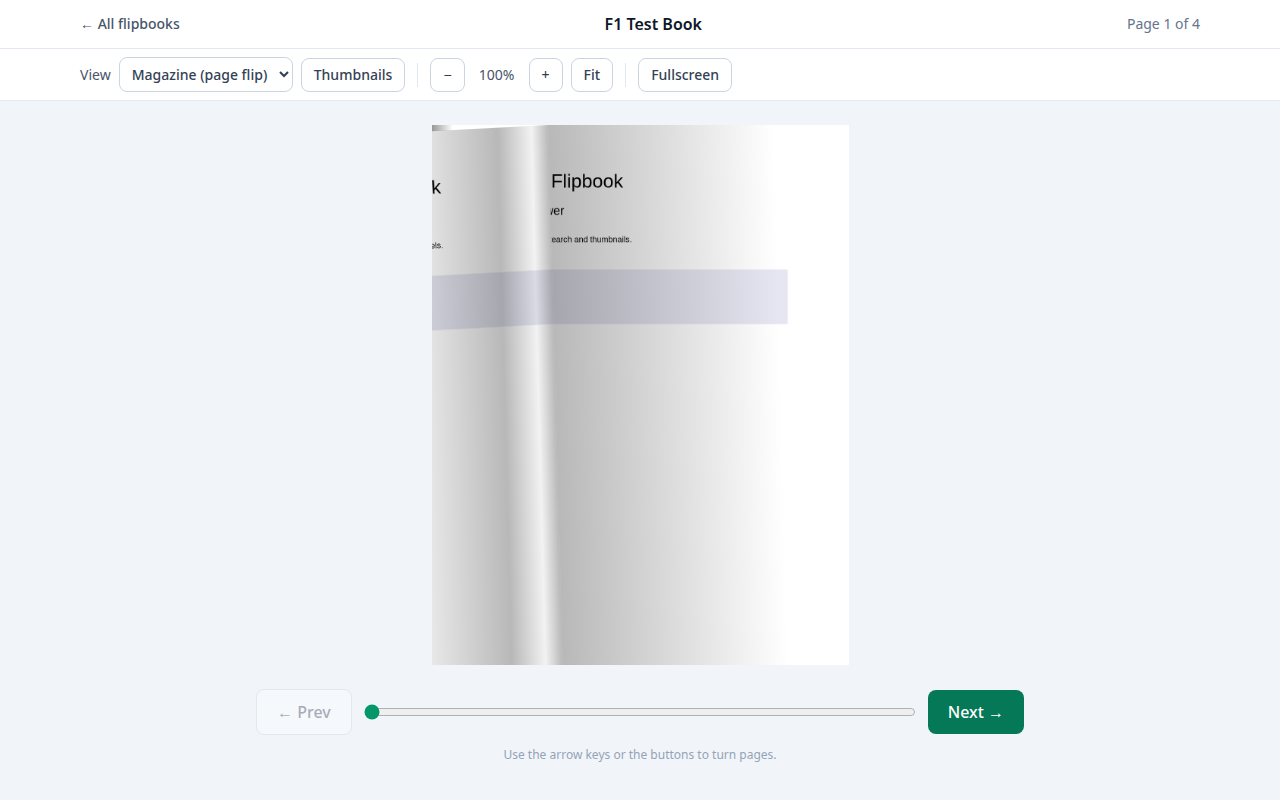
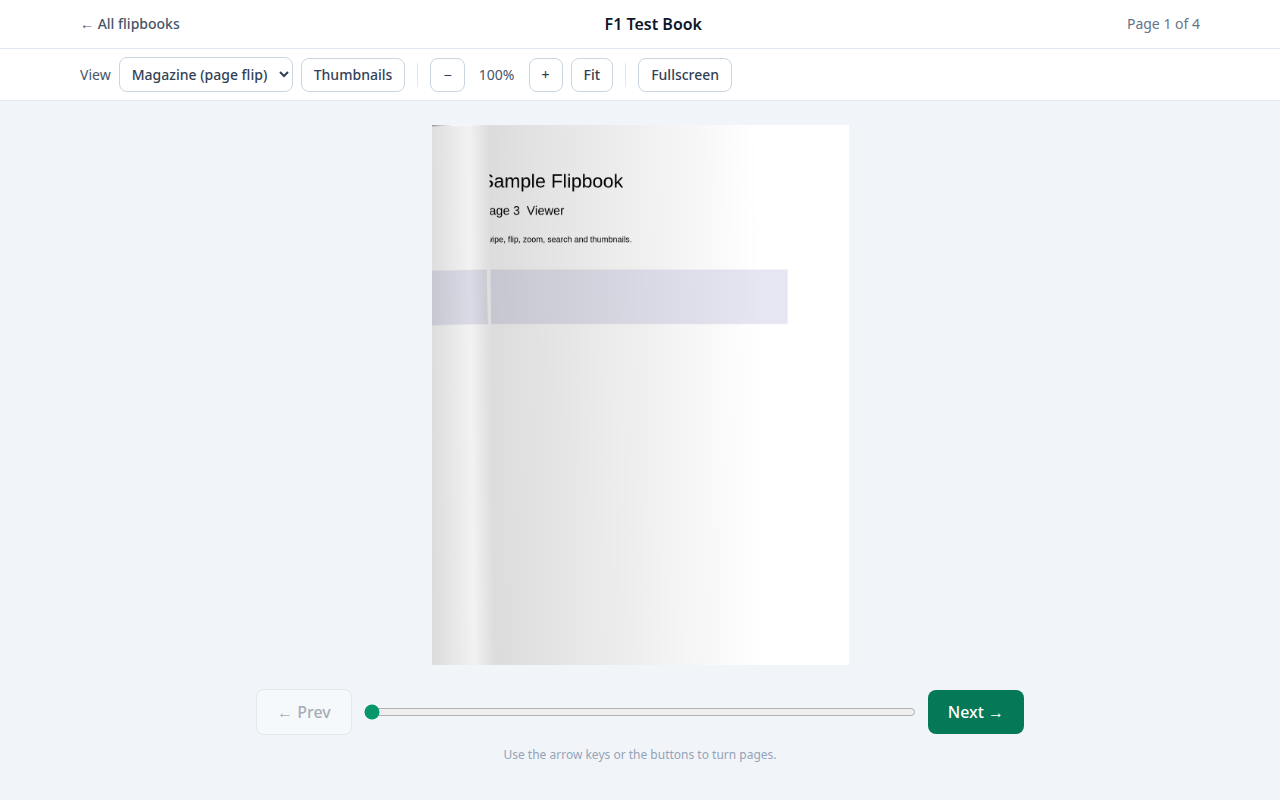
F4: last page is a single page for odd totals too — buildViews now matches StPageFlip's blank inside-cover page (page 2 alone, pairs from 3, last page alone); fixes the wrong 'Pages 2-3' label, the dead second Next, and the last page sitting in a spread

Changed region(s): [[0.3438, 0.1562, 0.5312, 0.8438]]

diff --git a/js/viewer.js b/js/viewer.js
@@ -84,7 +84,15 @@
   }
 
   /* Views: cover alone, then pairs in spread modes; one page at a
-     time in slider / coverflow / one-page modes. */
+     time in slider / coverflow / one-page modes.
+     Magazine on desktop with an ODD total matches StPageFlip, which
+     inserts a blank inside-cover page after the cover: page 2 sits
+     alone (paired with the blank), then pairs from 3, and the last
+     page sits alone. Without this the views drift one page behind
+     the library — the label says "Pages 2–3" while only page 2
+     shows, Next seems dead, and the last page lands in a spread
+     instead of alone. Fade has no blank page, so it keeps the
+     plain pairing. */
   function buildViews() {
     var list = [];
     if (!isSpreadMode()) {
@@ -92,6 +100,14 @@
       return list;
     }
     list.push([1]);
+    if (mode === 'magazine' && !isSingleMode() && totalPages > 1 && totalPages % 2 === 1) {
+      list.push([2]);
+      for (var start = 3; start <= totalPages; start += 2) {
+        if (start + 1 <= totalPages) list.push([start, start + 1]);
+        else list.push([start]);
+      }
+      return list;
+    }
     for (var start = 2; start <= totalPages; start += 2) {
       if (start + 1 <= totalPages) list.push([start, start + 1]);
       else list.push([start]);

diff --git a/viewer.html b/viewer.html
@@ -10,7 +10,7 @@
   <script src="js/vendor/page-flip.browser.js"></script>
   <script src="js/config.js"></script>
   <script src="js/app.js" defer></script>
-  <script src="js/viewer.js?v=f4i" defer></script>
+  <script src="js/viewer.js?v=f4j" defer></script>
   <style>
     #stage-inner { transition: transform .18s ease, opacity .18s ease; }
     /* StPageFlip book (Magazine mode, same library + config as Manuazine). */
